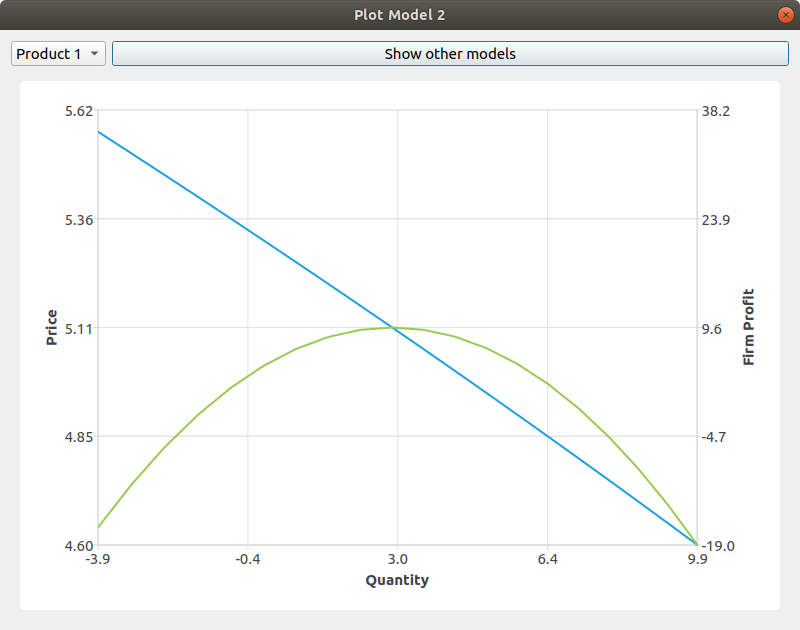
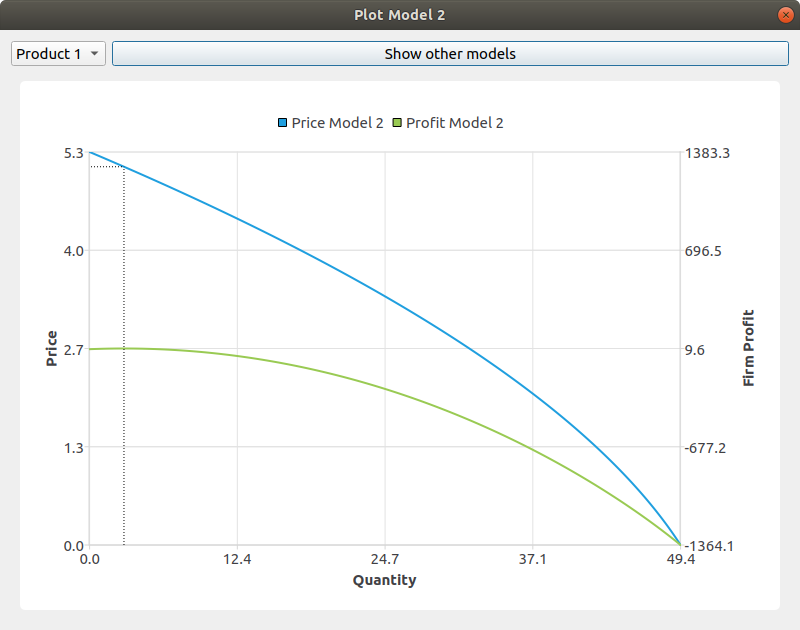
final version

diff --git a/Latex/tfg_economia.tex b/Latex/tfg_economia.tex
@@ -166,6 +166,10 @@ In this model we will assume that demands are linear, such that
 q_k(p) = a_k + \sum_{j=1}^N b_{kj}p_j
 \end{equation*}
 
+where
+\begin{equation*}
+\sum_{j \neq k} b_{kj} < |b_{kk}|
+\end{equation*}
 Because marginal costs are constant, the costs function $C_j$ will be characterized by
 \begin{equation*}
 C_j (q_j)= f_j + v_j \cdot q_j
@@ -208,6 +212,10 @@ CW = \int_{p^*}^{p(q = 0)} q(p) dq = \frac{-q^*}{b_{kk}} \cdot q^*
 In this model we will assume that demands are linear, such that
 \begin{equation*}
 q_k(p) = a_k + \sum_{j=1}^N b_{kj}p_j
+\end{equation*}
+where
+\begin{equation*}
+\sum_{j \neq k} b_{kj} < |b_{kk}|
 \end{equation*}
 
 Because marginal costs are linear, the costs function $C_j$ will be characterized by
@@ -252,6 +260,10 @@ In this model we will assume that demands are quadratic, such that
 q_k(p) = a_k + \sum_{j=1}^N b_{kj}p_j + \sum_{j=1}^N e_{kj} p_j^2
 \end{equation*}
 
+where
+\begin{equation*}
+\sum_{j \neq k} b_{kj} < |b_{kk}| \ \ and \ \ \sum_{j \neq k} e_{kj} < |e_{kk}|
+\end{equation*}
 
 Because marginal costs are constant, $C_j$ will be characterized by 
 \begin{equation*}
@@ -304,6 +316,11 @@ In this model we will assume that demands are quadratic, such that
 q_k(p) = a_k + \sum_{j = 1}^N b_{kj} p_j + \sum_{j = 1}^N e_{kj}p_j^2
 \end{equation*}
 
+where
+\begin{equation*}
+\sum_{j \neq k} b_{kj} < |b_{kk}| \ \ and \ \ \sum_{j \neq k} e_{kj} < |e_{kk}|
+\end{equation*}
+
 Because marginal costs are quadratic, $C_j$ will be characterized by
 \begin{equation*}
 C_j(q_j) = f_j + v_j \cdot q_j + w_j \cdot q_j^2
@@ -351,8 +368,9 @@ See appendix 1 for the computation of the integral in this model.
 
 \section{Users' Experience}
 
-Since the objective of the project is to ease merger simulations, we have chosen to make the program as simple and straightforward as possible. However, it is important to choose the correct settings to obtain the desired results.
-\begin{figure}
+The program is accessible at \urlstyle{same} \url{https://github.com/AkaKlein/Merger}. Because the code is consituted of several folders and an array of files, we have decided not to physically include it in this paper, but it can also be accessed through the previous link. By accessing this files, we can appreciate that the program has been written on C++ and that the visual interface was done with Qt.\\
+Since the objective of the project is to ease merger simulations, we have chosen to make the program as simple and straightforward as possible.  However, it is important to choose the correct settings to obtain the desired results.
+\begin{figure}[H]
 \begin{center}
   \includegraphics[width=10 cm]{home}
 \caption{\label{home}Home page of the prgram}
@@ -361,7 +379,7 @@ Since the objective of the project is to ease merger simulations, we have chosen
 
 In figure \ref{home}, we can see the initial interface the user faces. The user should first choose the model that they whish to compute from the drop list at "Model Type". Once the model is chosen, the user should upload a data set fulfilling the required charactheristics. For linear demands, the user should upload the vector $a$ and matrix $B$, and for quadratic demands they should also upload the matrix $E$. For constant marginal costs, the user should upload $v$ or $c$, and in the case of lineal marginal costs, it would be $v$ and $w$. In any case, the user should upload the matrix $D$, which would be an identity matrix if each firm produces only one product. In table \ref{tab:sample}, we see the order in which the vectors and matrices should be. Note that, the size of the vectors and matrices should be indicated before these start. For a matrix, the size $(n \times m)$ refers to columns and rows respectively. The data should be uploaded as a text file (.txt). To ensure that the loaded model is the correct one, the program is set to read the name of the model without spaces at the beggining of the file (i.e. "QuadraticDemandsLinearCosts").
 
-\begin{table}
+\begin{table}[H]
 \begin{center}
 \begin{tabular}{c|c|c|c} 
 Linear-Constant&Linear-Linear&Quadratic-Constant&Quadratic-Linear\\
@@ -385,7 +403,6 @@ D&D&D&D\\
 \end{table}
 
 To upload the data, it is enough to click on select data, choose the desired file, and then click on load data. With that, the program will automatically compute equilibrium prices $p^*$, equilibrium quantities $q^*$, costs -if required-, profits $\pi$ and consumer welfare $CW$. In figure \ref{first_results} we can see the output after loading the data for a model with quadratic demands and linear marginal costs. This results were obtained by using the data in table \ref{tab:input}, and an identity matrix for $D$.
-
 \begin{figure}
 \begin{center}
   \includegraphics[width=10 cm]{first_results}
@@ -489,8 +506,8 @@ The function "Compare" returns the difference between pre and post-merger values
 \end{center}
 \end{figure}
 
-Going back to figure \ref{after_merger}, we see that there is also de function "Plot".
-\begin{figure}
+Going back to figure \ref{after_merger}, we see that there is also de function "Plot". By clicking there, it plots the profits curve for product 1, against the demand function. We can see that equilibrium quantities are located at the same point as maximum profits. Thus, the are over the equilibrium prices under the demand curve would correspond to the measure of consumer welfare. In figure \ref{plot_2}, we see both models plotted, and can appreciate that there is a shift in both curves, but the above premise is still true. 
+\begin{figure}[H]
 \begin{center}
 \begin{minipage}{2.75in}
   \includegraphics[width=5 cm]{plot_1}
@@ -503,7 +520,25 @@ Going back to figure \ref{after_merger}, we see that there is also de function "
 \end{center}
 \end{figure}
 
+\section{Applications and Future Developments}
+Throughout this project we have developed the essential features necessary for the program to work. However, there are developments that could be useful and continue to make the user experience more enjoyable.
+\subsection{Modeling Developments}
+In this project we present four models that allow for little variation. Thus, it would be interesting to include models for other demand functions and other marginal cost functions -particulary hyperbolic and square root models. \\
+As for making the models more flexible, it would be useful to allow for binary variables that may affect demand, like qualitative characteristics of the product.\\ 
+Moreover, it would be interesting to compute models with other types of competition. While in this project we have worked with Bertrand competition, it would also be possible to do it with Cournot or Stackelberg competition, since they also converge to Nash equilibria. 
+\subsection{Functionality Developments}
+While the program reads a text file (.txt), which is common to all operating systems, users may find it more comfortable to work with excel or other spreadshit applications. It is possible to transform these into CSV formats, which the program would be able to read. However, this implementation lies beyond the scope of this project.\\
+Since we seek to make merger simulation more accessible to students and researchers, it would be interesting to prepare the program for Mac OS systems (Apple). Right now, the program is available for its use in Windows and Ubuntu operating systems. 
+\subsection{Applications}
+This program is primarily focused towards students and researchers. Thus, it is thought as a simple tool that can help students taking introductory microeconomics courses visualize better the effects of mergers in Bertrand Competition. As for students at an intermediate level, it allows for empirical exercises that enable students to test the competition theories thaught in the classroom.\\
+From a teaching perspective, this program would allow the instructor to reinforce the class content in a more dynamic way. By allowing students to research the effects of mergers, the instructor ensures a better understanding on the students' behalf.\\
+For researchers, this tool may largely decrease the time invested in programming the merger simulation themselves. Even if they wish to do so, this program would allow them to check for consistency with their own results. Moreover, if we allow the program to read from a CSV file, it would become very simple to export data from statistics software to the program, easing the use of econometric estimations.\\
+Finally, this tool might be useful for competition and antitrust agencies. While it should not be the only measure to be taken into account, merger simulations may be reflective of the possible new equilibrium in the market. Thus, it may work as a good complement to the already existing indicators and analysis.
+
 \section{Conclusion}
+Throughout this project, we have considered several different models with Bertrand Competition, and we have programmed them for easy computations of market equilibria. By doing so, we have had to create a visual framework to allow for a simple interface that suits the users' needs. We have also had to consider the mathematical implications of the models, relying on algebraic and numeric methods, with preference for the former. By programming the models with matrices and vectors, we have created a program that is able to compute market equilibria for economies with a large number of products and suppliers. Thus, by using a large enough number of these, we can see convergence with perfect competition economies. \\
+After the completion of the final version of the program, we are left with a tool that can be useful for students to get a better understanding of the effects of mergers in an oligopoly, as well as with perfect competition. This tool is also useful for researchers, who might benefit from avoiding the programming process after computing quantitative estimations. As for competition and antitrust agencies, such a program may help to assess the possible effects of mergers given the market characteristics.\\
+While this particular program still has possible future developments that may be of use, it opens the door for other developments in this area of economics together with computer science. Beyond this project, the nexus between programming and economics should continue to grow, and merger simulation may be an intrinsic path to follow. 
 
 \newpage
 \begin{thebibliography}{9}
@@ -573,7 +608,7 @@ Let us now decide on the sign. Inside $\sqrt{\Delta}$, the factor multiplying $q
 \legend{$y=\sqrt{-x}$}
 \end{axis}
 \end{tikzpicture}        
-\caption{$y = \sqrt{-x}$}
+\caption{Plot for $y = \sqrt{-x}$}
 \end{minipage}\hfill
 \begin{minipage}{0.45\textwidth}
 \begin{tikzpicture} 
@@ -589,7 +624,7 @@ Let us now decide on the sign. Inside $\sqrt{\Delta}$, the factor multiplying $q
 \legend{$y=-\sqrt{-x}$}
 \end{axis}
 \end{tikzpicture}       
-\caption{$y = -\sqrt{-x}$}
+\caption{Plot for $y = -\sqrt{-x}$}
     \end{minipage}
 \end{figure}
 
